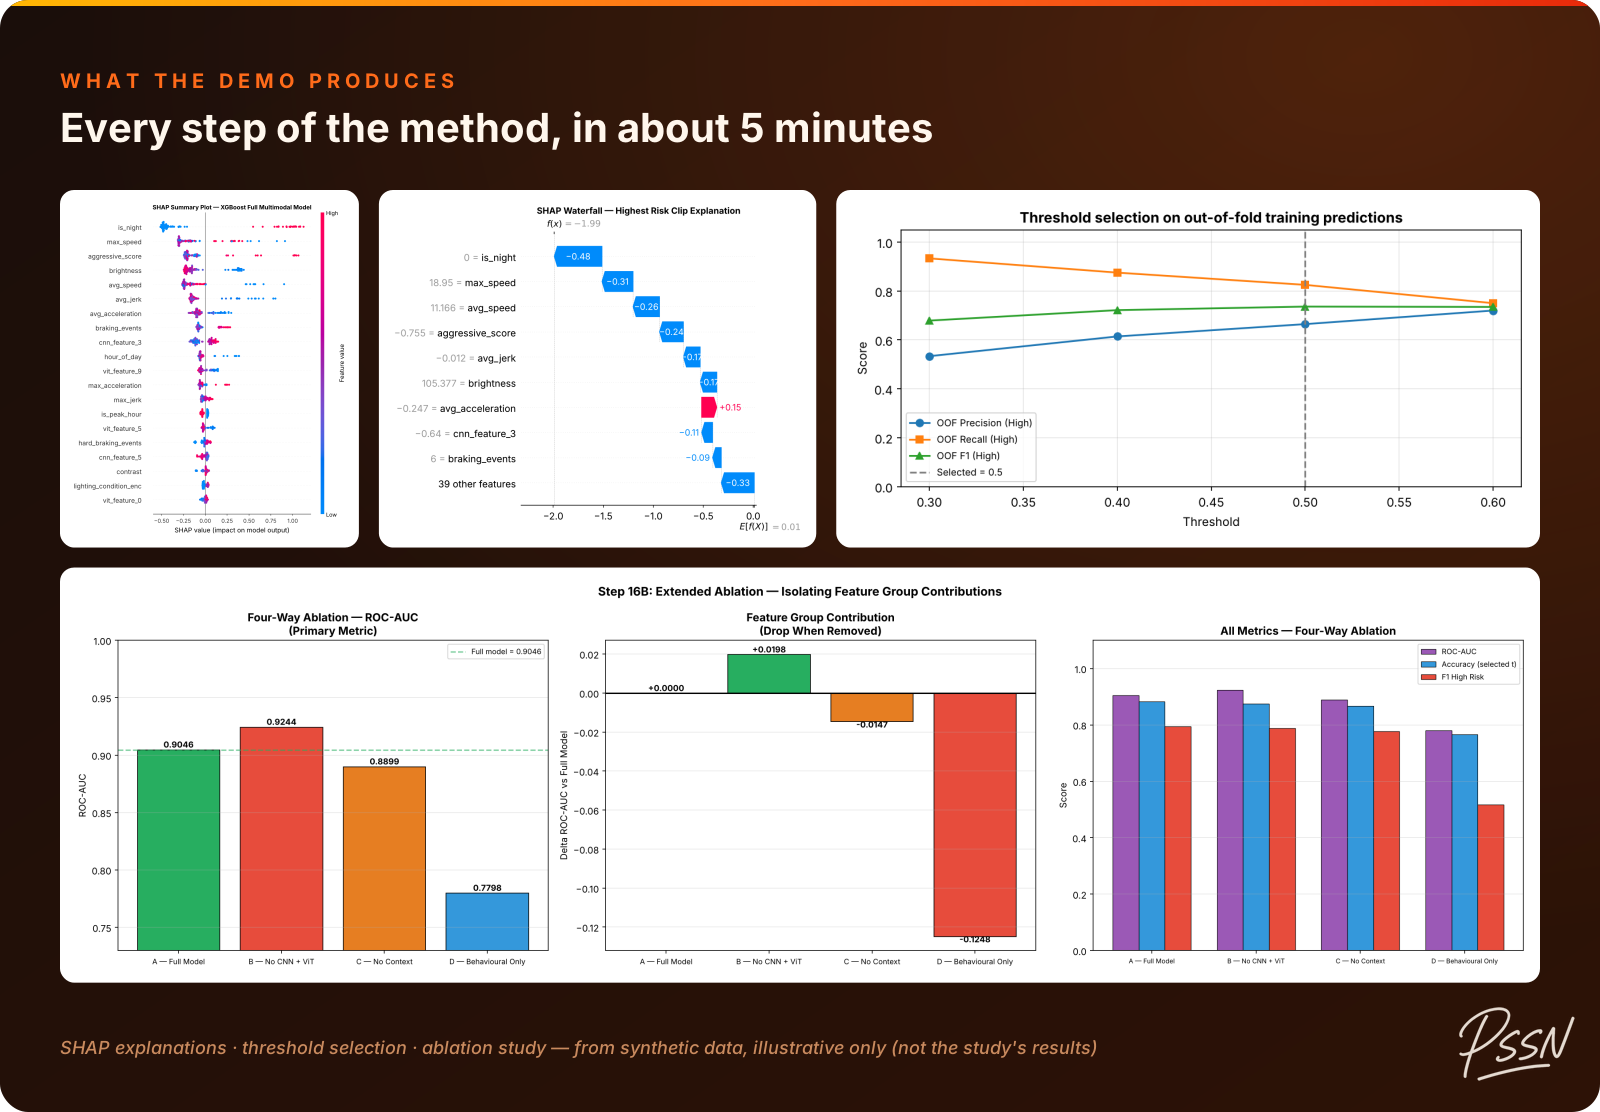
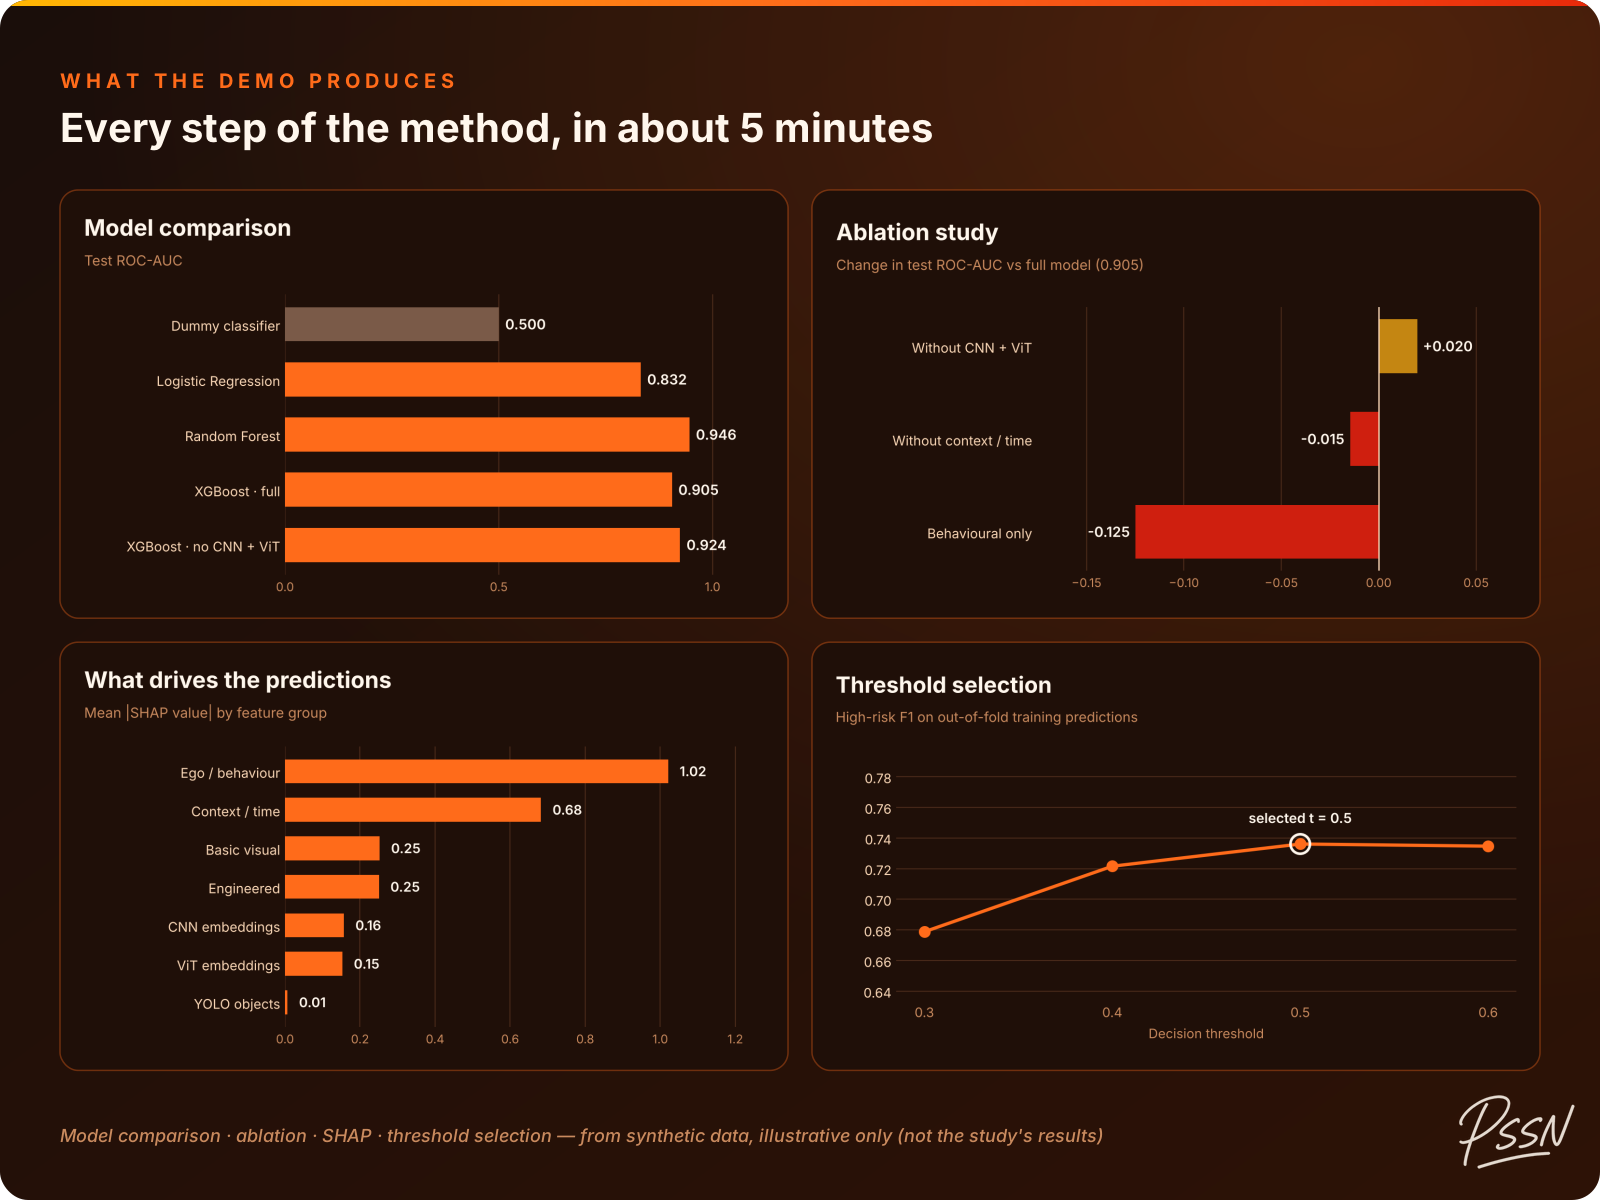
Demo preview in the lava theme

diff --git a/README.md b/README.md
@@ -148,7 +148,7 @@ To get access:
 
 <p align="center">
   <a href="https://colab.research.google.com/github/Nair-Shreyas/multimodal-driving-risk-prediction/blob/main/reproducible/demo/demo_pipeline.ipynb">
-    <img src="docs/images/demo_preview.png" alt="Charts produced by the demo: SHAP summary and waterfall, threshold selection and ablation study (synthetic data)" width="100%"/>
+    <img src="docs/images/demo_preview.png" alt="Charts produced by the demo: model comparison, ablation study, SHAP feature-group importance and threshold selection (synthetic data)" width="100%"/>
   </a>
 </p>
 
